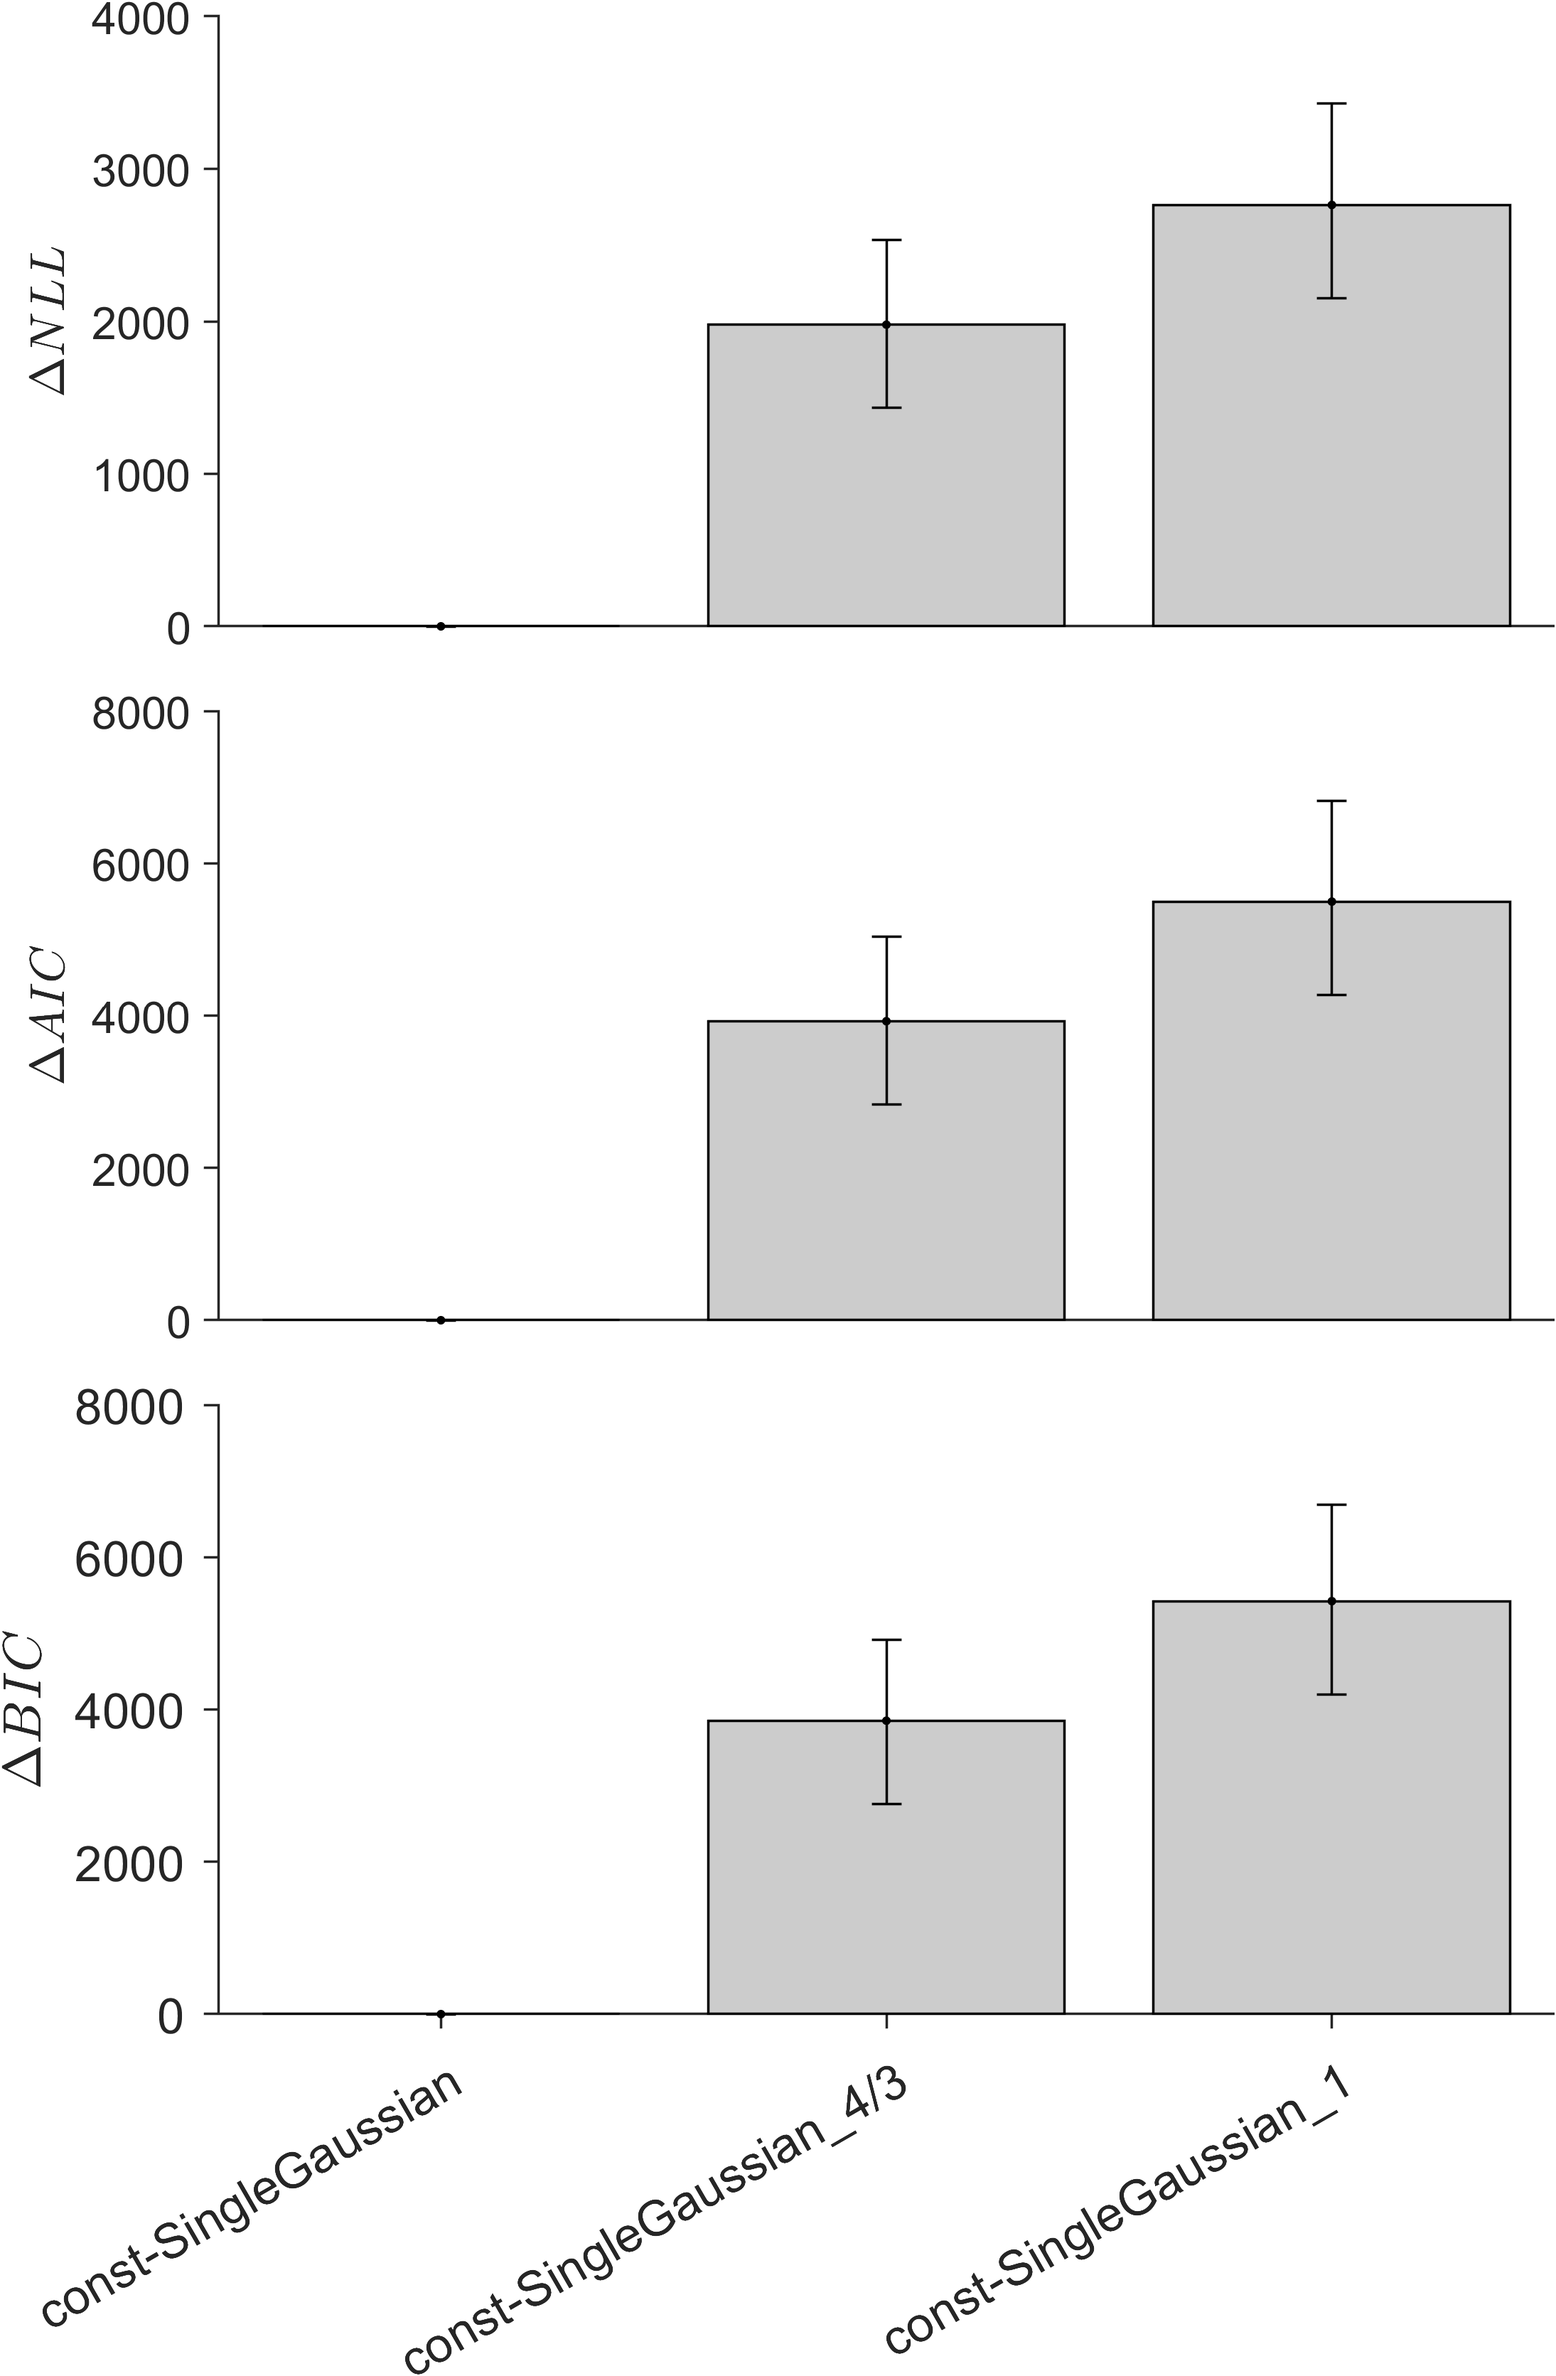
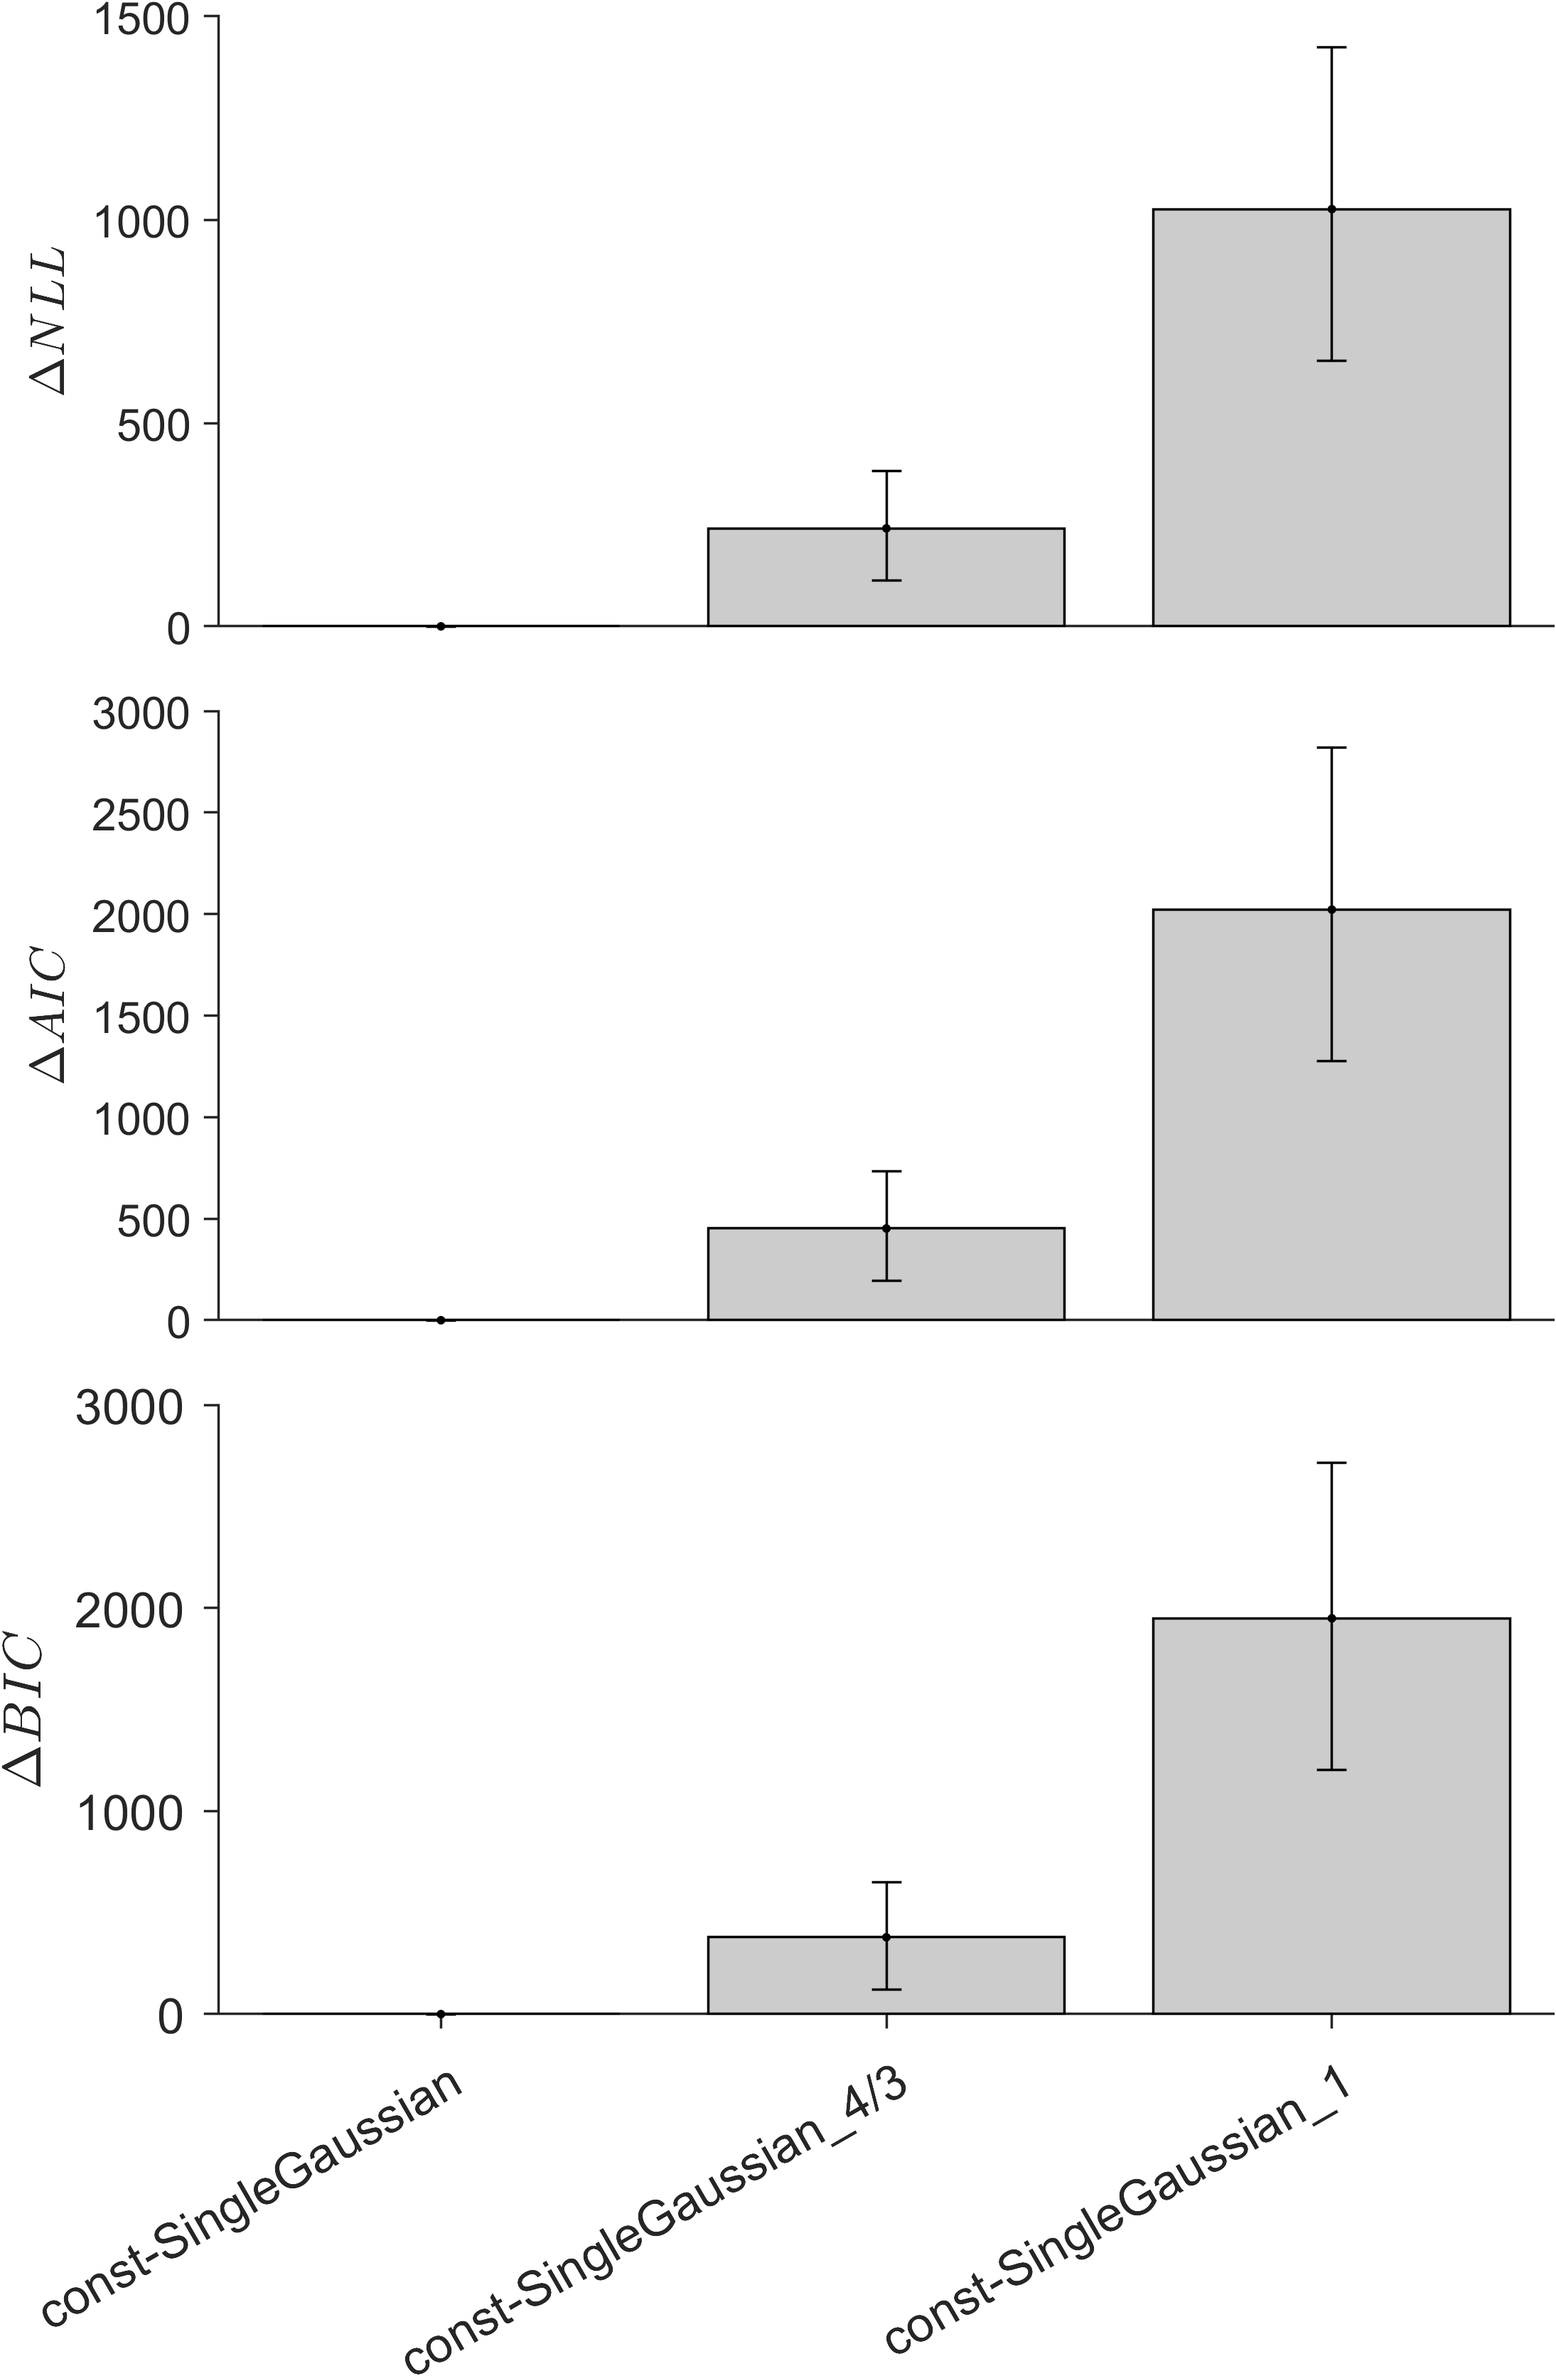
Corrected error in unimodal delta NLL, AIC, BIC computation

diff --git a/UnimodalModelComparison.m b/UnimodalModelComparison.m
@@ -1,0 +1,152 @@
+clear all; close all;
+cd('C:\Users\liu_s\Audiovisual-causal-inference')
+
+figsize = get(0, 'ScreenSize');
+figformat = "svg";
+figpath = "plots\";
+fontsize=9;
+png_dpi = 500;
+plot_lapse = true;
+lapse_type = "Uniform";
+model_path = "modelfits\";
+data_path = "data\";
+analysis_path = "analysis\";
+
+% Unimodal data ModelComparison
+priors = ["","GaussianLaplaceBothFixedZero","GaussianLaplaceBothFixedZero","GaussianLaplaceBothFixedZero", "SingleGaussian", "GaussianLaplaceBothFixedZero", "TwoGaussiansBothFixedZero","SingleGaussian","SingleGaussian","SingleGaussian"];
+noises = ["","exp", "exp", "exp", "exp", "constant", "exp", "constant","constant","constant"];
+rescales = ["","free", "4over3", "1", "free","free","free","free","4over3","1"];
+model_types = ["semi-parametric","exp-GaussianLaplace", "exp-GaussianLaplace\_4/3","exp-GaussianLaplace\_1", "exp-SingleGaussian", "const-GaussianLaplace","exp-TwoGaussians","const-SingleGaussian","const-SingleGaussian\_4/3","const-SingleGaussian\_1"];
+num_params = [40,14,13,13,12,10,14,8,7,7];
+
+%% Vanila 3 models on unimodal data only
+figure('Position', [0 0 figsize(4)*0.9*0.65 figsize(4)*0.9]);
+set(gcf, 'Color', 'w')
+UnimodalData_ModelComparison_FinalTables_Vanilla = unimodaldata_modelcomparison_visualize(priors((end-2):end), noises((end-2):end), rescales((end-2):end), model_types((end-2):end), num_params((end-2):end), true, fontsize+1, model_path, data_path);
+ax = gca; 
+ax.FontSize = fontsize+1; 
+% exportgraphics(gcf,figpath+'UJoint_ModelSelection_vanilla'+'.png','Resolution',png_dpi);
+% exportgraphics(gcf,figpath+'UJoint_ModelSelection_vanilla'+'.pdf',"ContentType","vector");
+save(analysis_path+'unimodaldata_modelcomparison_finaltables_vanilla','UnimodalData_ModelComparison_FinalTables_Vanilla');
+
+%% All models on unimodal data 
+figure('Position', [0 0 figsize(4)*0.9*5/4 figsize(4)*0.9]);
+set(gcf, 'Color', 'w')
+UnimodalData_ModelComparison_FinalTables = unimodaldata_modelcomparison_visualize(priors, noises, rescales, model_types, num_params, true, fontsize+1, model_path, data_path);
+ax = gca; 
+ax.FontSize = fontsize+1; 
+% exportgraphics(gcf,figpath+'UJoint_ModelSelection'+'.png','Resolution',png_dpi);
+% exportgraphics(gcf,figpath+'UJoint_ModelSelection'+'.pdf',"ContentType","vector");
+save(analysis_path+'unimodaldata_modelcomparison_finaltables','UnimodalData_ModelComparison_FinalTables');
+
+%%
+function [UnimodalData_ModelComparison_FinalTables] = unimodaldata_modelcomparison_visualize(priors, noises, rescales, model_types, num_params, is_plot, fontsize, model_path, data_path)
+    num_models = length(priors);
+    num_subjects = 15;
+
+    load(data_path+"data_stratified_UV.mat");
+    load(data_path+"data_stratified_UA.mat");
+    data_UV = data_stratified_to_data(data_stratified_UV, false, true); % last argument is is_visual.
+    data_UA = data_stratified_to_data(data_stratified_UA, false, false);
+    n_data = zeros(1,15);
+    for subjidx=1:num_subjects
+        n_data(subjidx) = length(data_UA{subjidx}) +length(data_UV{subjidx}); 
+    end
+    % AIC, BIC
+    NLLs = zeros(num_models, num_subjects);
+    AICs = zeros(num_models, num_subjects);
+    BICs = zeros(num_models, num_subjects);
+    
+    % load nonparam indv UJoint fits
+    model_start_idx = 1;
+    if(model_types(1)=="semi-parametric")
+        load(model_path + "fittedparams_UJoint_Semiparam_rescalefree_lapseUniform.mat")
+        [min_val, min_idx] = min(F_vals,[],1);
+        [num_inits,num_params_nonparam]=size(theta_fitted);
+        NLLs(1,:) = min_val;
+        AICs(1,:) = 2.*min_val + 2.* num_params(1);
+        BICs(1,:) = 2.*min_val + num_params(1).*log(n_data);
+        model_start_idx = model_start_idx+1;
+    end
+
+    for model=model_start_idx:(num_models)
+        load(model_path + "fittedparams_UJoint_"+noises(model)+"-"+priors(model)+"_rescale"+rescales(model)+"_lapseUniform.mat")
+        [min_val, min_idx] = min(F_vals,[],2);
+        NLLs(model,:) = min_val';
+        AICs(model,:) = 2.*min_val' + 2.* num_params(model);
+        BICs(model,:) = 2.*min_val' + num_params(model).*log(n_data);
+    end
+    NLL_sum = sum(NLLs,2);
+    AIC_sum = sum(AICs,2);
+    BIC_sum = sum(BICs,2);
+
+    NLL_sumvalues_diff = NLL_sum - min(NLL_sum);
+    [~,min_NLL_model] = min(NLL_sum);
+    AIC_sumvalues_diff = AIC_sum - min(AIC_sum);
+    [~,min_AIC_model] = min(AIC_sum);
+    BIC_sumvalues_diff = BIC_sum - min(BIC_sum);
+    [~,min_BIC_model] = min(BIC_sum);
+
+    % AIC/BIC bootstrapping
+    num_bootstrap_samps = 100000;
+    NLL_sum_bootstraps = zeros(num_models,num_bootstrap_samps);
+    AIC_sum_bootstraps = zeros(num_models,num_bootstrap_samps);
+    BIC_sum_bootstraps = zeros(num_models,num_bootstrap_samps);
+    rng("default")
+    rng(0)
+    for samp = 1:num_bootstrap_samps
+        sampled_subj = datasample(1:num_subjects,num_subjects); 
+        for model=1:(num_models)
+            NLL_sum_bootstraps(model, samp) = sum(NLLs(model, sampled_subj));
+            AIC_sum_bootstraps(model, samp) = sum(AICs(model, sampled_subj));
+            BIC_sum_bootstraps(model, samp) = sum(BICs(model, sampled_subj));
+        end
+    end
+    NLL_bootstraps_diff = NLL_sum_bootstraps - NLL_sum_bootstraps(min_NLL_model,:);
+    AIC_bootstraps_diff = AIC_sum_bootstraps - AIC_sum_bootstraps(min_AIC_model,:);
+    BIC_bootstraps_diff = BIC_sum_bootstraps - BIC_sum_bootstraps(min_BIC_model,:);
+
+    NLL_bootstraps_errorbars = prctile(NLL_bootstraps_diff,[2.5, 97.5], 2);
+    AIC_bootstraps_errorbars = prctile(AIC_bootstraps_diff,[2.5, 97.5], 2);
+    BIC_bootstraps_errorbars = prctile(BIC_bootstraps_diff,[2.5, 97,5], 2);
+
+    % Plot
+    bootstraps_errorbars_allstats = {NLL_bootstraps_errorbars, AIC_bootstraps_errorbars, BIC_bootstraps_errorbars};
+    allstats = {NLL_sumvalues_diff, AIC_sumvalues_diff, BIC_sumvalues_diff};
+    stat_names = ["$\Delta NLL$", "$\Delta AIC$", "$\Delta BIC$"];
+
+    if(is_plot)
+        tiledlayout(length(stat_names),1, 'TileSpacing', 'compact','Padding', 'none')
+        for statistic=1:length(stat_names)
+            nexttile
+            set(gca,'TickDir','out');
+            bootstraps_errorbars = bootstraps_errorbars_allstats{statistic};
+            mean_stat = allstats{statistic};
+                hold on
+                %for model=[1,2,3]
+                cats = model_types;
+                cats = insertBefore(cats,"_no","\");
+                C = categorical(cats);
+                C = reordercats(C,cellstr(C)');
+                bar(C,mean_stat,'FaceColor','k', 'FaceAlpha',0.2)
+                errorbar(C,mean_stat,mean_stat-squeeze(bootstraps_errorbars(:, 1)),squeeze(bootstraps_errorbars(:, 2))-mean_stat, 'k.')
+                %end
+                if(statistic~=length(stat_names))
+                    xticklabels([]);
+                    set(gca,'xtick',[])
+                end
+                ylabel(stat_names(statistic), 'interpreter', 'latex')
+                %set(gca,'xticklabel',["diff","max","ent"].')
+        end
+    end
+    % Create a .mat file with the delta NLL, AIC, and BIC tables
+    UnimodalData_ModelComparison_FinalTables = cell(1,3); 
+    for stat=1:3
+        final_table = zeros(length(allstats{1}),3);
+        final_table(:,1) = bootstraps_errorbars_allstats{stat}(:,1); % 2.5% percentile
+        final_table(:,2) = allstats{stat}; % Sum
+        final_table(:,3) = bootstraps_errorbars_allstats{stat}(:,2); % 97.5% percentile
+        UnimodalData_ModelComparison_FinalTables{stat} = final_table;
+    end
+    set(gca,'fontsize', fontsize)
+end

diff --git a/manuscript_allplots.m b/manuscript_allplots.m
@@ -250,14 +250,18 @@ function [UnimodalData_ModelComparison_FinalTables] = unimodaldata_modelcomparis
     BICs = zeros(num_models, num_subjects);
     
     % load nonparam indv UJoint fits
-    load(model_path + "fittedparams_UJoint_Semiparam_rescalefree_lapseUniform.mat")
-    [min_val, min_idx] = min(F_vals,[],1);
-    [num_inits,num_params_nonparam]=size(theta_fitted);
-    NLLs(1,:) = min_val;
-    AICs(1,:) = 2.*min_val + 2.* num_params(1);
-    BICs(1,:) = 2.*min_val + num_params(1).*log(n_data);
+    model_start_idx = 1;
+    if(model_types(1)=="semi-parametric")
+        load(model_path + "fittedparams_UJoint_Semiparam_rescalefree_lapseUniform.mat")
+        [min_val, min_idx] = min(F_vals,[],1);
+        [num_inits,num_params_nonparam]=size(theta_fitted);
+        NLLs(1,:) = min_val;
+        AICs(1,:) = 2.*min_val + 2.* num_params(1);
+        BICs(1,:) = 2.*min_val + num_params(1).*log(n_data);
+        model_start_idx = model_start_idx+1;
+    end
 
-    for model=2:(num_models)
+    for model=model_start_idx:(num_models)
         load(model_path + "fittedparams_UJoint_"+noises(model)+"-"+priors(model)+"_rescale"+rescales(model)+"_lapseUniform.mat")
         [min_val, min_idx] = min(F_vals,[],2);
         NLLs(model,:) = min_val';
@@ -267,10 +271,6 @@ function [UnimodalData_ModelComparison_FinalTables] = unimodaldata_modelcomparis
     NLL_sum = sum(NLLs,2);
     AIC_sum = sum(AICs,2);
     BIC_sum = sum(BICs,2);
-
-    NLL_diff = NLLs - NLLs(2,:);
-    AIC_diff = AICs - AICs(2,:);
-    BIC_diff = BICs - BICs(2,:);
 
     NLL_sumvalues_diff = NLL_sum - min(NLL_sum);
     [~,min_NLL_model] = min(NLL_sum);
